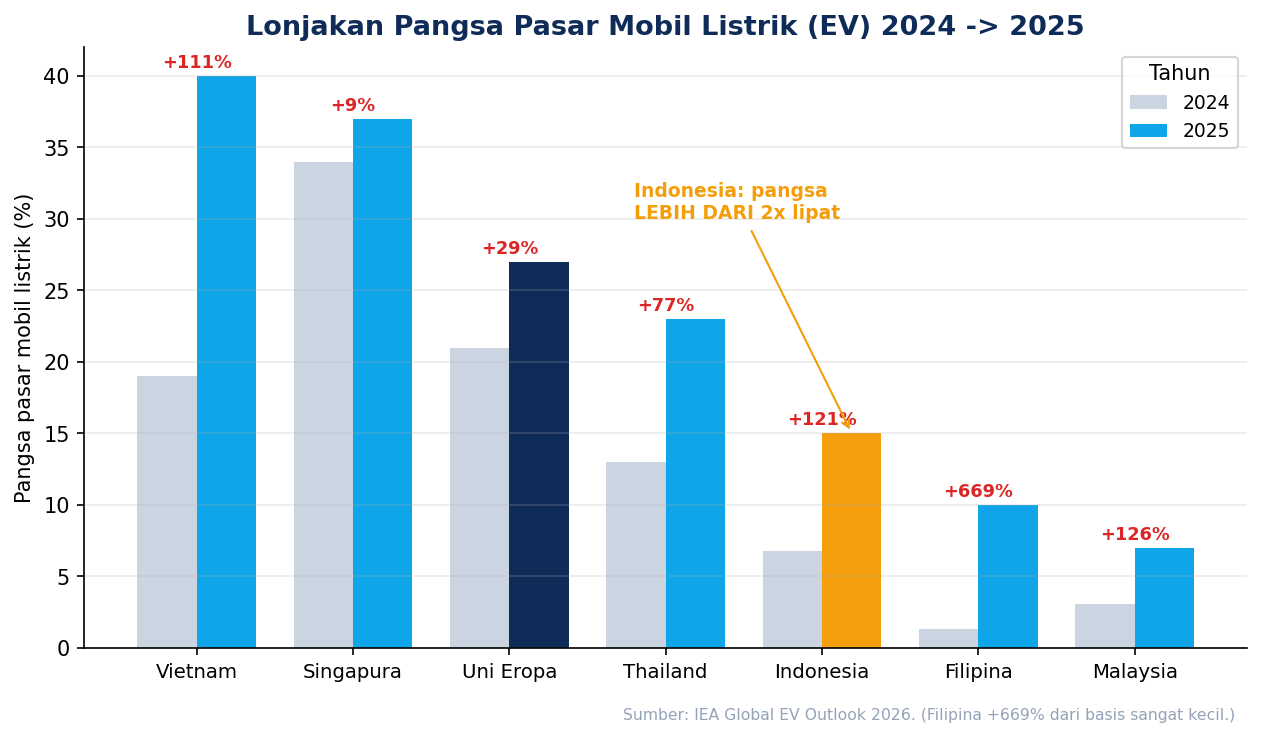
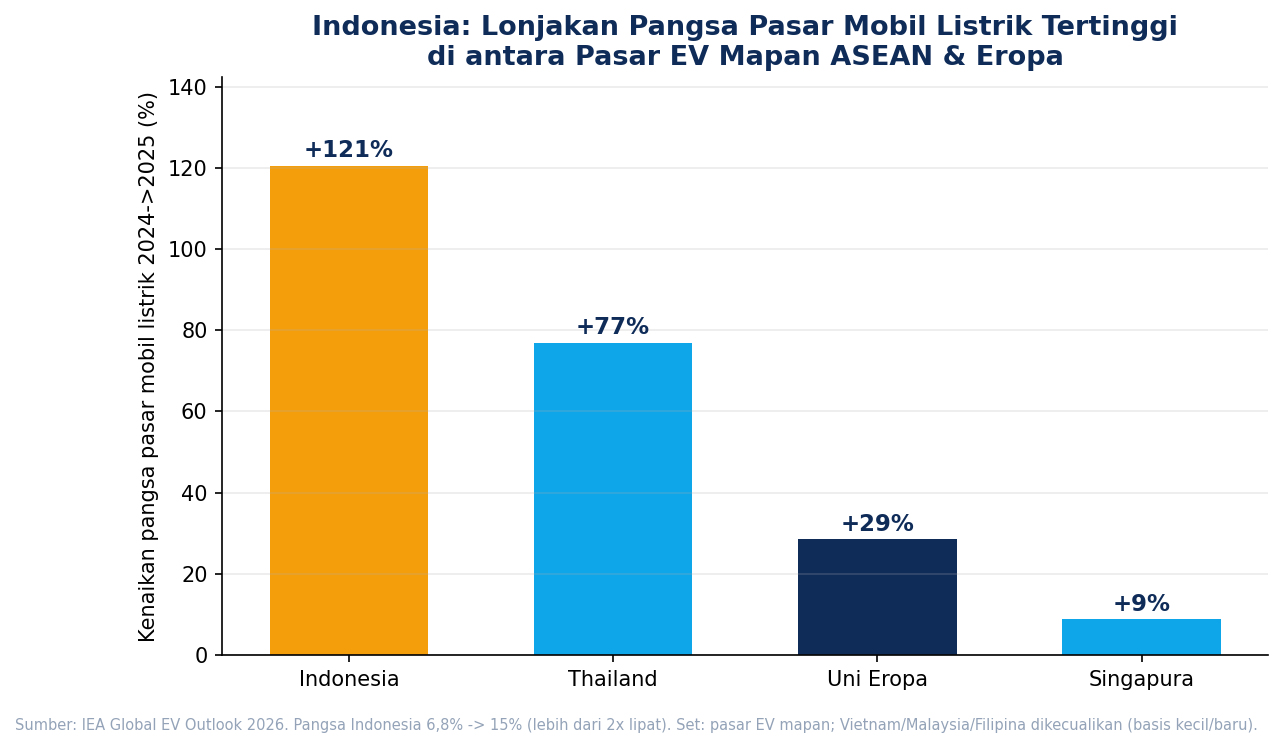
Perbarui grafik pangsa pasar (single-bar, set pasar mapan)

diff --git a/scripts/viz_pertumbuhan_dan_spklu.py b/scripts/viz_pertumbuhan_dan_spklu.py
@@ -13,30 +13,27 @@ import matplotlib.pyplot as plt
 OUT = Path(__file__).resolve().parent.parent / "figures"; OUT.mkdir(parents=True, exist_ok=True)
 NAVY="#0f2c59"; TEAL="#0ea5e9"; ORANGE="#f59e0b"; GREY="#cbd5e1"; RED="#dc2626"
 
-# ---------- 1. Lonjakan pangsa pasar EV 2024->2025 ----------
-# (negara, share 2024 %, share 2025 %) -- IEA EV sales share, Cars
-share=[("Vietnam",19,40),("Singapura",34,37),("Uni Eropa",21,27),("Thailand",13,23),
-       ("Indonesia",6.8,15),("Filipina",1.3,10),("Malaysia",3.1,7)]
-labels=[s[0] for s in share]; v24=[s[1] for s in share]; v25=[s[2] for s in share]
-inc=[(b-a)/a*100 for a,b in zip(v24,v25)]
-x=np.arange(len(labels)); w=0.38
-fig,ax=plt.subplots(figsize=(10,5.2))
-ax.bar(x-w/2,v24,w,color=GREY,label="2024")
-c25=[ORANGE if l=="Indonesia" else (NAVY if l=="Uni Eropa" else TEAL) for l in labels]
-ax.bar(x+w/2,v25,w,color=c25,label="2025")
-for i in range(len(labels)):
-    ax.annotate(f"+{inc[i]:.0f}%",(i,max(v24[i],v25[i])),xytext=(0,4),textcoords="offset points",
-                ha="center",fontsize=8.5,fontweight="bold",color=RED)
-ax.set_xticks(x); ax.set_xticklabels(labels,fontsize=9.5)
-ax.set_ylabel("Pangsa pasar mobil listrik (%)")
-ax.set_title("Lonjakan Pangsa Pasar Mobil Listrik (EV) 2024 -> 2025",fontsize=13,fontweight="bold",color=NAVY)
-ax.legend(loc="upper right",fontsize=9,title="Tahun")
+# ---------- 1. Kenaikan pangsa pasar EV 2024->2025 (1 bar/negara) ----------
+# Set: pasar EV mapan (Indonesia, Thailand, Singapura, Uni Eropa). IEA EV sales share, Cars.
+# bar = % kenaikan pangsa 2024->2025. Indonesia tertinggi pada set ini.
+grow=[("Indonesia",6.8,15),("Thailand",13,23),("Uni Eropa",21,27),("Singapura",34,37)]
+grow=[(n,(b-a)/a*100) for n,a,b in grow]
+grow.sort(key=lambda t:-t[1])
+labels=[g[0] for g in grow]; inc=[g[1] for g in grow]
+cols=[ORANGE if l=="Indonesia" else (NAVY if l=="Uni Eropa" else TEAL) for l in labels]
+fig,ax=plt.subplots(figsize=(9,5))
+b=ax.bar(labels,inc,color=cols,width=0.6)
+for bar,v in zip(b,inc):
+    ax.annotate(f"+{v:.0f}%",(bar.get_x()+bar.get_width()/2,v),xytext=(0,4),
+                textcoords="offset points",ha="center",fontsize=11,fontweight="bold",color=NAVY)
+ax.set_ylabel("Kenaikan pangsa pasar mobil listrik 2024->2025 (%)")
+ax.set_title("Indonesia: Lonjakan Pangsa Pasar Mobil Listrik Tertinggi\ndi antara Pasar EV Mapan ASEAN & Eropa",
+             fontsize=13,fontweight="bold",color=NAVY)
 ax.spines[["top","right"]].set_visible(False); ax.grid(axis="y",alpha=.25)
-idx=labels.index("Indonesia")
-ax.annotate("Indonesia: pangsa\nLEBIH DARI 2x lipat",(idx+w/2,15),xytext=(idx-1.2,30),
-            fontsize=9,color=ORANGE,fontweight="bold",arrowprops=dict(arrowstyle="->",color=ORANGE))
-ax.text(0.99,-0.12,"Sumber: IEA Global EV Outlook 2026. (Filipina +669% dari basis sangat kecil.)",
-        transform=ax.transAxes,ha="right",fontsize=7.5,color="#94a3b8")
+ax.set_ylim(0,max(inc)*1.18)
+ax.text(0.99,-0.13,"Sumber: IEA Global EV Outlook 2026. Pangsa Indonesia 6,8% -> 15% (lebih dari 2x lipat). "
+        "Set: pasar EV mapan; Vietnam/Malaysia/Filipina dikecualikan (basis kecil/baru).",
+        transform=ax.transAxes,ha="right",fontsize=7,color="#94a3b8")
 fig.savefig(OUT/"viz_pertumbuhan_pangsa.png",dpi=150,bbox_inches="tight",facecolor="white")
 print("OK viz_pertumbuhan_pangsa.png")
 